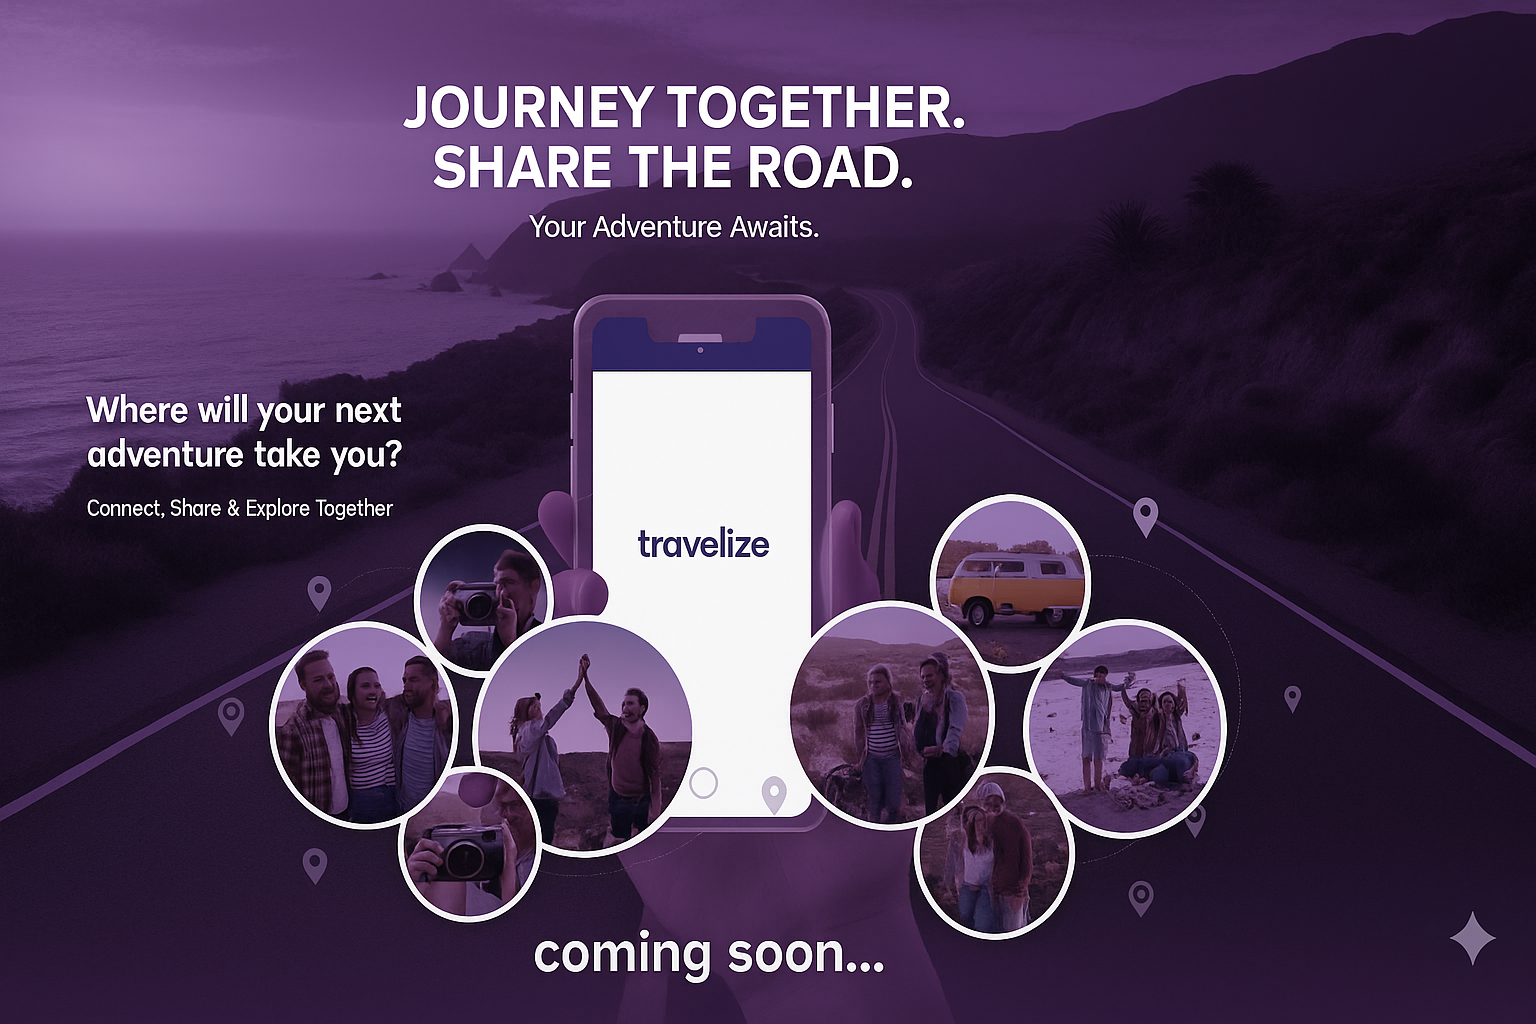
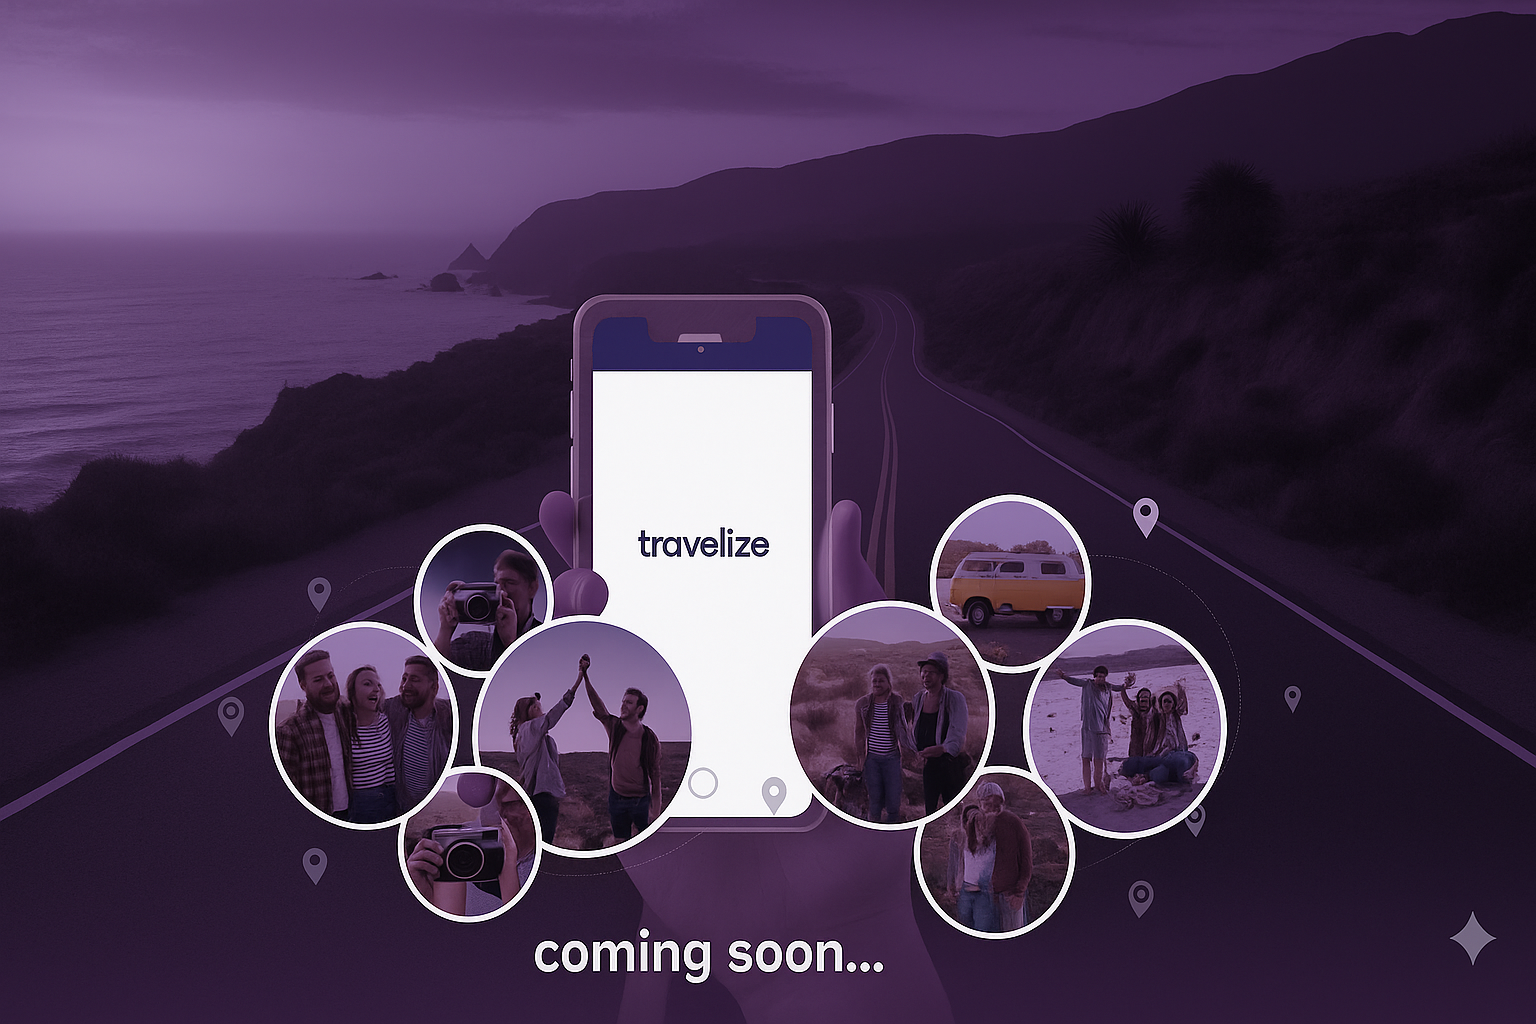
Add files via upload

diff --git a/index.html b/index.html
@@ -25,10 +25,24 @@
             background-size: cover;
             background-position: center;
             background-repeat: no-repeat;
+            display: flex;
+            align-items: flex-start;
+            justify-content: center;
+            padding-top: 40px;
+        }
+
+        .coming-soon {
+            color: white;
+            font-size: 5rem;
+            font-weight: bold;
+            text-shadow: 2px 2px 8px rgba(0, 0, 0, 0.7);
+            letter-spacing: 2px;
         }
     </style>
 </head>
 <body>
-    <div class="hero"></div>
+    <div class="hero">
+        <h1 class="coming-soon">Coming soon...</h1>
+    </div>
 </body>
 </html>
